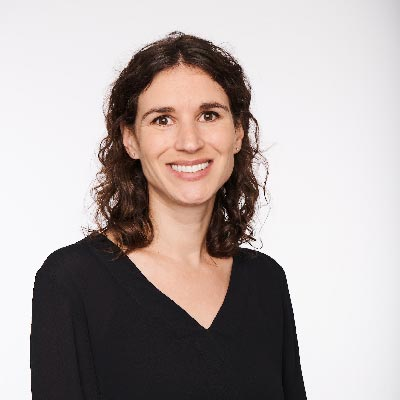
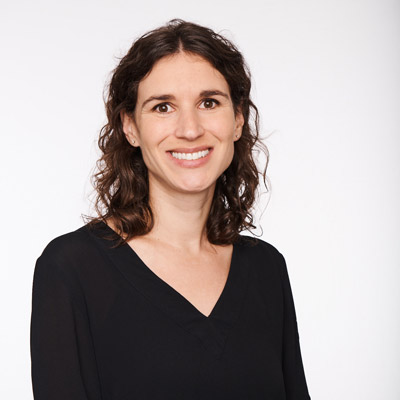
New team images. Mobile nav improved. Other style changes.

diff --git a/source/stylesheets/site.css.scss b/source/stylesheets/site.css.scss
@@ -293,7 +293,11 @@ nav ul {
 }
 
 .vs {
-    display: none;
+    position: absolute;
+    top: 12px;
+    right: 16px;
+    font-size: 11px;
+    color: #ccc;
 }
 
 .vs-logo {
@@ -431,6 +435,8 @@ footer a.footer-link {
     opacity: 1;
     height: 100%;
     overflow: visible;
+    padding-bottom: 20px;
+    background: #fff;
 }
 
 .menu li {
@@ -562,12 +568,9 @@ blockquote {
 }
 
 .mobile-nav {
-    padding: 0 8px 16px 16px;
+    padding: 6px 16px 8px 16px;
     background: #fff;
-    //border-top: 1px solid $light-grey;
-    //position: absolute;
-    //top: 14px;
-    //right: 0;
+    border-top: 1px solid $light-grey;
 }
 
 .mobile-nav ul,
@@ -580,6 +583,8 @@ blockquote {
 
 .mobile-nav .menu-item a {
     margin-right: 8px;
+    font-size: 16px;
+    font-weight: 300;
 }
 
 .mobile-nav a {
@@ -747,6 +752,9 @@ blockquote {
         white-space: nowrap;
         text-indent: -2000em;
         overflow: hidden;
+        position: relative;
+        right: 0;
+        top: 0;
     }
 
 	nav ul {

diff --git a/source/stylesheets/home.css.scss b/source/stylesheets/home.css.scss
@@ -149,6 +149,7 @@ $shadow: 2px 2px 15px rgba(0,0,0,0.05);
         max-width: 1300px;
         margin: -300px auto 0 auto;
         position: relative;
+        left: 50px;
     }
     
     .time .line {
